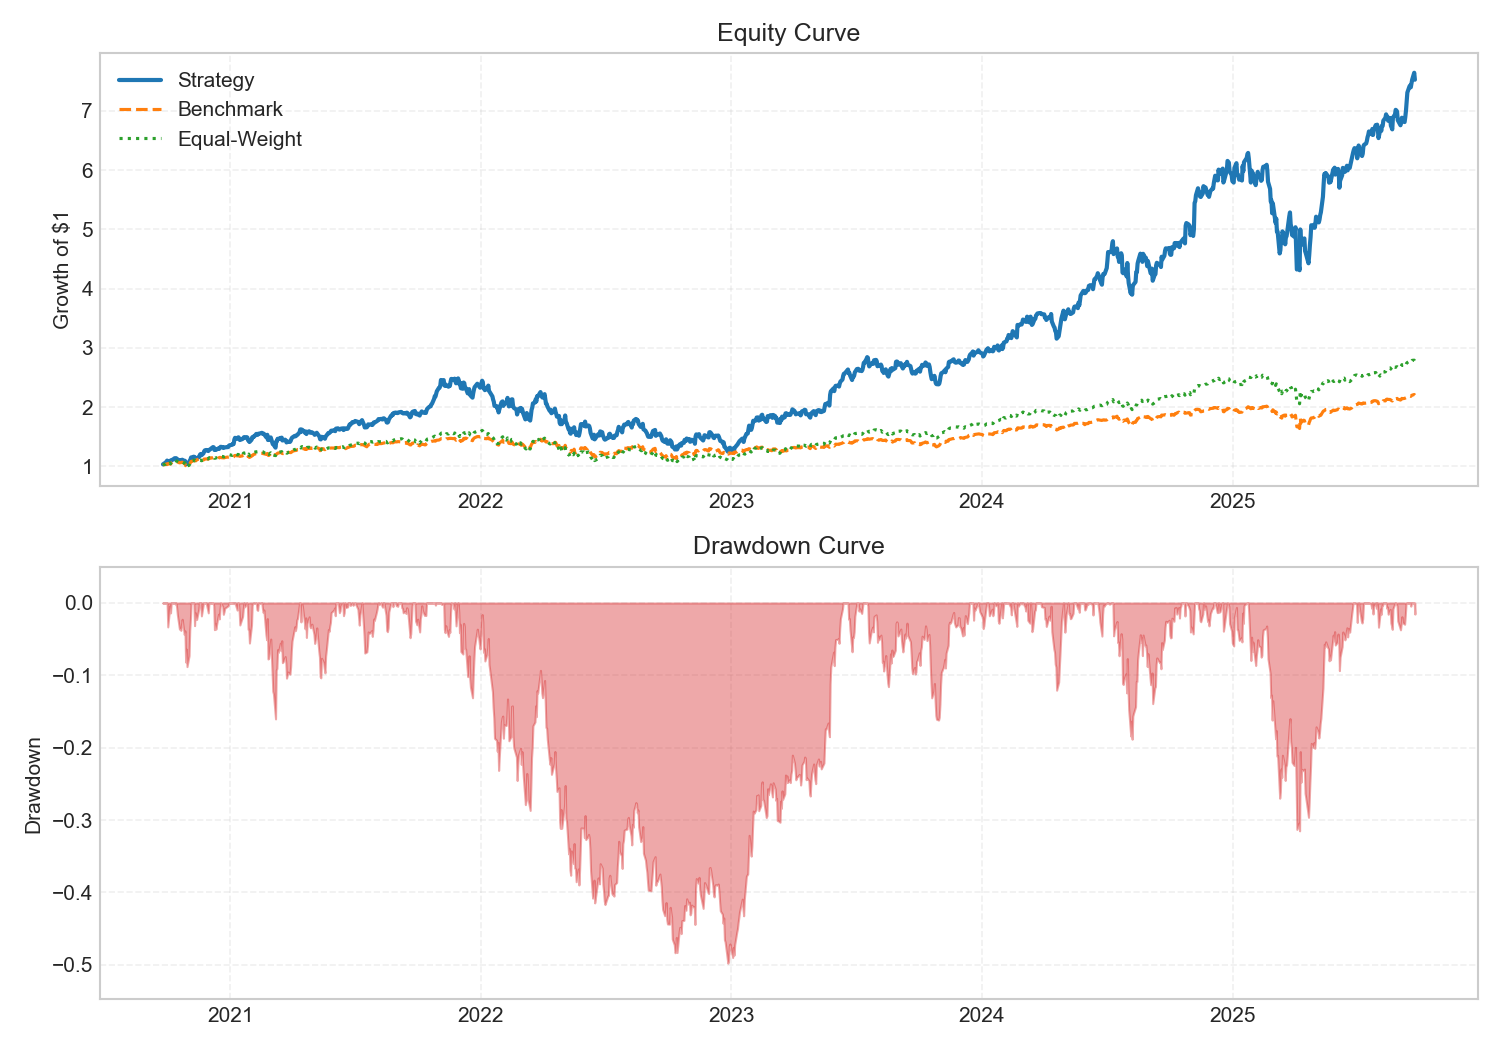
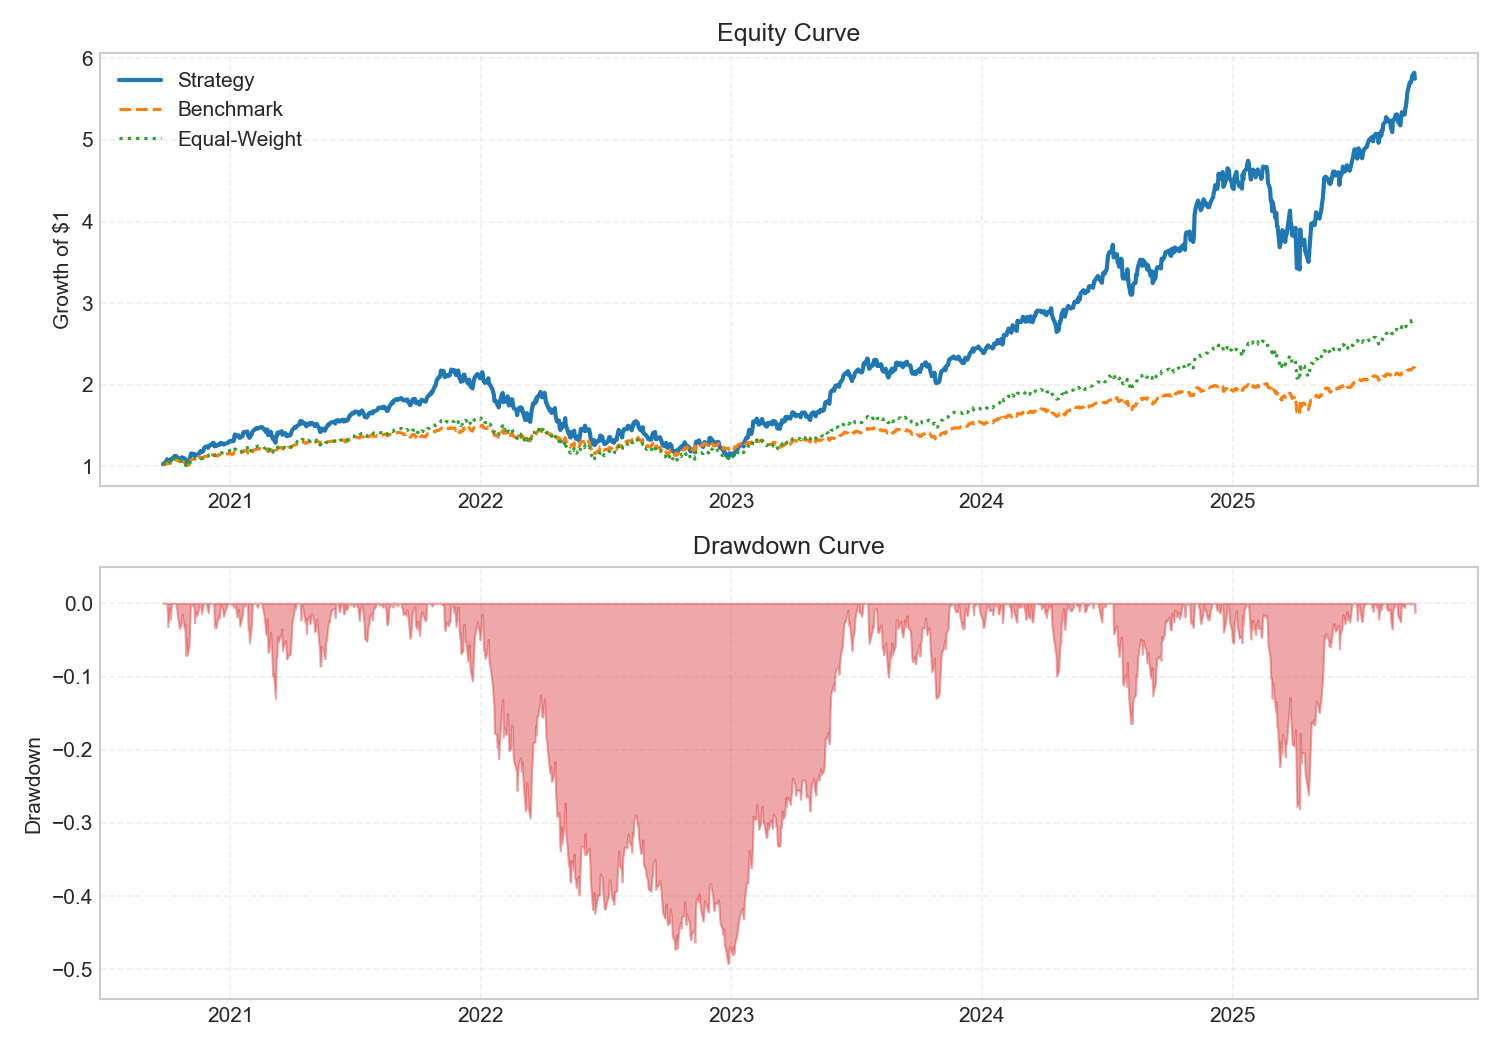
Enhance walk-forward backtest with ML overlay and diversification metrics
Added ML overlay using RandomForest-based signals to tilt MVO weights in walk-forward backtesting. Introduced Effective Number of Holdings (ENH) metrics for diversification analysis. Improved transaction cost application and refactored feature importance plot saving in ML demo. Minor update to YahooFinanceService for data filling method. Updated example figures and outputs.

diff --git a/portfolio/backtesting/walk_forward.py b/portfolio/backtesting/walk_forward.py
@@ -16,6 +16,7 @@ warnings.filterwarnings('ignore')
 from portfolio.optimizer.optimizer import SimplePortfolioOptimizer
 from portfolio.performance.calculator import SimplePerformanceCalculator
 from portfolio.data.yahoo_service import YahooFinanceService
+from portfolio.ml.predictor import RandomForestPredictor
 
 logger = logging.getLogger(__name__)
 
@@ -29,9 +30,11 @@ class BacktestConfig:
     benchmark_symbol: str = 'SPY'
     include_equal_weight_baseline: bool = True
     include_ml_overlay: bool = True
+    ml_tilt_alpha: float = 0.2  # strength of ML tilt over MVO weights
     max_position_cap: float = 0.20  # per-asset cap for constrained runs
     risk_model: str = 'ledoit_wolf'  # 'sample'|'ledoit_wolf'|'oas'
     turnover_penalty: float = 0.0
+    entropy_penalty: float = 0.03  # diversification control for MVO
 
 @dataclass
 class BacktestResult:
@@ -269,9 +272,12 @@ class WalkForwardBacktester:
                     weights = {symbol: 1.0/len(symbols) for symbol in symbols}
 
                 # Calculate transaction costs
+                applied_turnover = 0.0
                 if previous_weights is not None:
                     turnover = self._calculate_turnover(previous_weights, weights)
-                    transaction_costs += turnover * self.config.transaction_cost_bps / 10000
+                    cost = turnover * self.config.transaction_cost_bps / 10000
+                    transaction_costs += cost
+                    applied_turnover = turnover
 
                 # Store weights
                 weights_history.append({
@@ -282,6 +288,10 @@ class WalkForwardBacktester:
                 # Calculate test period returns
                 test_returns = test_prices.pct_change().dropna()
                 portfolio_returns = (test_returns * pd.Series(weights)).sum(axis=1)
+                # Apply transaction cost at the start of the test segment (net-of-cost)
+                if applied_turnover > 0 and not portfolio_returns.empty:
+                    cost = applied_turnover * self.config.transaction_cost_bps / 10000
+                    portfolio_returns.iloc[0] = portfolio_returns.iloc[0] - cost
 
                 returns_list.extend(portfolio_returns.values)
                 previous_weights = weights
@@ -296,6 +306,24 @@ class WalkForwardBacktester:
 
         # Calculate metrics (benchmark-relative if provided)
         metrics = self._calculate_comprehensive_metrics(returns_series, benchmark_returns)
+
+        # Compute diversification metrics (Effective Number of Holdings)
+        try:
+            if not weights_df.empty:
+                def _enh(row: pd.Series) -> float:
+                    import numpy as np
+                    w = row.drop(labels=['date'], errors='ignore').astype(float)
+                    w = w[w > 0]
+                    if w.empty:
+                        return 0.0
+                    eps = 1e-12
+                    return float(np.exp(-(w * np.log(w + eps)).sum()))
+                enh_series = weights_df.apply(_enh, axis=1)
+                metrics['avg_enh'] = float(enh_series.mean()) if not enh_series.empty else 0.0
+                metrics['min_enh'] = float(enh_series.min()) if not enh_series.empty else 0.0
+                metrics['max_enh'] = float(enh_series.max()) if not enh_series.empty else 0.0
+        except Exception:
+            pass
 
         # Calculate total turnover
         total_turnover = self._calculate_total_turnover(weights_history)
@@ -324,6 +352,7 @@ class WalkForwardBacktester:
                 returns,
                 weight_cap=weight_cap,
                 risk_model=self.config.risk_model,
+                entropy_penalty=getattr(self.config, 'entropy_penalty', 0.0),
                 turnover_penalty=self.config.turnover_penalty,
                 previous_weights=prev_vec,
             )
@@ -334,28 +363,95 @@ class WalkForwardBacktester:
             return {symbol: 1.0/len(symbols) for symbol in symbols}
 
     def _calculate_ml_overlay_weights(self, train_prices: pd.DataFrame, symbols: List[str]) -> Dict[str, float]:
-        """Calculate weights using ML overlay (simplified momentum scoring)."""
+        """Calculate weights using an RF-based ML tilt over MVO weights.
+
+        - Train RandomForest per symbol on the training window (next-day returns target)
+        - Use the most recent predicted return as a cross-sectional signal
+        - Z-score and tilt MVO weights multiplicatively: w_final ∝ w_mvo * exp(alpha * z)
+        - Apply position cap and renormalize
+        """
         try:
-            returns = train_prices.pct_change().dropna()
-            if returns.empty:
-                return {symbol: 1.0/len(symbols) for symbol in symbols}
+            # Baseline MVO weights on training window (capped)
+            mvo_weights = self._calculate_mean_variance_weights(
+                train_prices, symbols, weight_cap=self.config.max_position_cap, previous_weights=None
+            )
 
-            # Simple momentum scoring (12-month return)
-            momentum_scores = {}
-            for symbol in symbols:
-                if symbol in returns.columns:
-                    momentum = (1 + returns[symbol]).prod() - 1
-                    momentum_scores[symbol] = momentum
+            # Prepare signals per symbol
+            alpha = float(getattr(self.config, 'ml_tilt_alpha', 0.2) or 0.2)
+            signals: Dict[str, float] = {}
 
-            # Normalize scores to weights
-            scores = pd.Series(momentum_scores)
-            positive_scores = scores[scores > 0]
+            train_start = train_prices.index.min()
+            train_end = train_prices.index.max()
 
-            if len(positive_scores) == 0:
-                return {symbol: 1.0/len(symbols) for symbol in symbols}
+            for sym in symbols:
+                try:
+                    raw = self.data_service.fetch_historical_data(sym, period="5y")
+                    if raw is None or raw.empty:
+                        continue
+                    # Slice to training window (ensure enough lookback already present)
+                    df = raw.loc[:train_end]
+                    df = df.loc[max(train_start, df.index.min()):train_end]
+                    if df.empty:
+                        continue
 
-            weights = positive_scores / positive_scores.sum()
-            return weights.to_dict()
+                    rf = RandomForestPredictor()
+                    feat_df = rf.create_features(df)
+                    if feat_df.empty:
+                        continue
+                    X, y = rf.prepare_features(feat_df)
+                    if X.shape[0] < 50:
+                        # Avoid unstable fits on tiny samples
+                        continue
+                    rf.train(X, y)
+                    # Use the latest feature row for a next-day prediction
+                    pred = float(rf.predict(X[-1].reshape(1, -1))[0])
+                    signals[sym] = pred
+                except Exception:
+                    # Skip symbol on failure
+                    continue
+
+            if not signals:
+                return mvo_weights
+
+            # Z-score signals across universe (winsorize)
+            sig_series = pd.Series({s: signals.get(s, 0.0) for s in symbols}, dtype=float)
+            mean = float(sig_series.mean())
+            std = float(sig_series.std(ddof=0))
+            if std == 0 or np.isnan(std):
+                z = pd.Series(0.0, index=sig_series.index)
+            else:
+                z = (sig_series - mean) / std
+            z = z.clip(-2.0, 2.0)
+
+            # Apply multiplicative exponential tilt with min-signal threshold
+            w_mvo = pd.Series({s: mvo_weights.get(s, 0.0) for s in symbols}, dtype=float)
+            strength = float(z.abs().mean())
+            if strength < 0.10:
+                # Too weak signal; avoid tilt
+                tilted = w_mvo.copy()
+            else:
+                alpha_eff = alpha * min(1.0, strength)
+                tilted = w_mvo * np.exp(alpha_eff * z)
+            tilted = tilted.clip(lower=0.0)
+
+            # Renormalize
+            s = float(tilted.sum())
+            if s == 0 or np.isnan(s):
+                tilted = w_mvo.copy()
+                s = float(max(tilted.sum(), 1e-12))
+            tilted = tilted / s
+
+            # Apply position cap and renormalize again
+            cap = float(getattr(self.config, 'max_position_cap', 0.20) or 0.20)
+            if cap is not None and cap > 0:
+                tilted = tilted.clip(upper=cap)
+                s2 = float(tilted.sum())
+                if s2 == 0 or np.isnan(s2):
+                    tilted = w_mvo.copy()
+                    s2 = float(max(tilted.sum(), 1e-12))
+                tilted = tilted / s2
+
+            return {s: float(tilted.get(s, 0.0)) for s in symbols}
 
         except Exception as e:
             logger.warning(f"Error in ML overlay calculation: {e}")

diff --git a/examples/ml_workflow_demo.py b/examples/ml_workflow_demo.py
@@ -13,6 +13,7 @@ import numpy as np
 import matplotlib.pyplot as plt
 from portfolio.ml.predictor import RandomForestPredictor
 from portfolio.data.yahoo_service import YahooFinanceService
+from pathlib import Path
 import logging
 
 # Set up logging
@@ -131,7 +132,11 @@ def plot_feature_importance(feature_importance, symbol):
     plt.title(f'Top 15 Feature Importance - {symbol} (Red = New Indicators)')
     plt.tight_layout()
 
-    plt.savefig(f'feature_importance_{symbol}.png', dpi=150, bbox_inches='tight')
+    # Save under examples/figures
+    figures_dir = Path(__file__).resolve().parent / 'figures'
+    figures_dir.mkdir(parents=True, exist_ok=True)
+    out_path = figures_dir / f'feature_importance_{symbol}.png'
+    plt.savefig(out_path, dpi=150, bbox_inches='tight')
     plt.close()
 
 def main():

diff --git a/portfolio/data/yahoo_service.py b/portfolio/data/yahoo_service.py
@@ -359,7 +359,7 @@ class YahooFinanceService:
             numeric_columns = cleaned_data.select_dtypes(include=[np.number]).columns
             for col in numeric_columns:
                 # Forward fill missing values, then backward fill
-                cleaned_data[col] = cleaned_data[col].fillna(method='ffill').fillna(method='bfill')
+                cleaned_data[col] = cleaned_data[col].ffill().bfill()
 
             # Remove rows with all NaN values
             cleaned_data = cleaned_data.dropna(how='all')

diff --git a/README.md b/README.md
@@ -1,0 +1,134 @@
+# Quant Portfolio System
+
+A clear, minimal portfolio optimization project that demonstrates end‑to‑end workflows: data ingest (Yahoo Finance), mean‑variance optimization, simple risk/return metrics, and a lightweight FastAPI service. The goal is to keep it easy to run, explain, and maintain.
+
+## Features
+- Yahoo Finance data loader with simple caching to `data/`
+- Mean‑variance optimization (long‑only, sum‑to‑1) via CVXPY
+- Metrics: annualized return, volatility, Sharpe ratio, max drawdown
+- Basic visualizations: equity curve, drawdown, efficient frontier (preview)
+- FastAPI endpoints for optimize/analyze
+- Walk‑forward backtesting (short windows for quick runs)
+- Clean examples and a lab notebook
+
+## Stack
+- Python 3.11+, Pandas, NumPy
+- yfinance (Yahoo Finance)
+- CVXPY
+- FastAPI (+ uvicorn)
+- pytest
+- Matplotlib
+
+## Quick Start
+1) Create a virtual environment and install dependencies
+```bash
+python -m venv .venv
+source .venv/bin/activate  # Windows: .venv\Scripts\activate
+pip install -r requirements.txt
+```
+
+2) Run the lab notebook (recommended first pass)
+```bash
+# Launch Jupyter (VS Code, Jupyter Lab, or classic notebooks)
+# Open portfolio_optimization_lab.ipynb and run top-to-bottom
+```
+
+3) (Optional) Fetch and cache data
+```bash
+python scripts/fetch_market_data.py
+```
+This will populate `data/raw` and `data/processed` and create combined price CSVs for faster reruns.
+
+## Project Structure
+```
+portfolio/                # Core logic
+  api/                    # FastAPI app (portfolio.api.main:app)
+  backtesting/            # Walk‑forward backtesting
+  data/                   # Yahoo service and helpers
+  optimizer/              # SimplePortfolioOptimizer (MVO, CVaR, BL)
+  performance/            # Metrics + plots
+examples/                 # Runnable examples and outputs
+scripts/                  # Small, focused scripts (fetch, API, reports)
+tests/                    # pytest suites
+portfolio_optimization_lab.ipynb  # End‑to‑end lab notebook
+config.yaml               # Minimal config (e.g., defaults)
+```
+
+## Notebook Guide
+Open `portfolio_optimization_lab.ipynb` and run cells in order. You’ll see:
+- Data Fetch & Caching: loads adjusted close prices and caches to `data/`
+- Returns & Correlations: quick sanity checks
+- Mean–Variance Optimization: weights + metrics; optional efficient frontier
+- Parameter Sweep: risk model, weight caps, entropy
+- Backtesting (short window): quick performance snapshot
+- Outputs saved to `examples/figures/` and `examples/outputs/`
+
+### Defaults used in the lab
+- Risk model: Ledoit–Wolf shrinkage (toggle to `sample` or `oas`)
+- Diversification: `weight_cap = 0.20`, `entropy_penalty = 0.03` (Effective Number of Holdings is printed)
+- Walk‑forward: 1y train / 1q test, transaction costs 7.5 bps per rebalance (returns are net‑of‑cost)
+- ML overlay: conservative tilt with a min‑signal threshold
+
+## API Usage (Optional)
+Start the API:
+```bash
+uvicorn portfolio.api.main:app --reload
+```
+Or use the script:
+```bash
+python scripts/run_api_server.py
+```
+Health check:
+```bash
+curl http://127.0.0.1:8000/health
+```
+Optimize (example payload):
+```bash
+curl -X POST http://127.0.0.1:8000/optimize \
+  -H "Content-Type: application/json" \
+  -d '{
+    "assets": [{"symbol": "AAPL"}, {"symbol": "MSFT"}, {"symbol": "GOOGL"}],
+    "method": "mean_variance",
+    "objective": "sharpe",
+    "lookback_period": 252
+  }'
+```
+Analyze:
+```bash
+curl -X POST http://127.0.0.1:8000/analyze \
+  -H "Content-Type: application/json" \
+  -d '{
+    "assets": [{"symbol": "AAPL"}, {"symbol": "MSFT"}, {"symbol": "GOOGL"}],
+    "weights": {"AAPL": 0.34, "MSFT": 0.33, "GOOGL": 0.33},
+    "risk_free_rate": 0.02,
+    "lookback_period": 252
+  }'
+```
+
+## Examples
+- `examples/data_pipeline_demo.py` — basic loader + cache
+- `examples/walk_forward_demo.py` — quick walk‑forward snapshot
+- `examples/ml_workflow_demo.py` — simple ML overlay illustration
+- Figures and CSV outputs are written under `examples/figures/` and `examples/outputs/`
+
+## Tests
+Run all tests:
+```bash
+pytest -q
+```
+Tip: If you’re offline, prefer running tests that don’t require fresh downloads (data service caches under `data/`).
+
+## Data & Configuration
+- Primary data source: Yahoo Finance via `yfinance`
+- Minimal preprocessing: forward/backward fills; simple validation
+- Config via `config.yaml` (sane defaults); environment variables optional
+- Handle missing/invalid symbols gracefully; continue with available data
+
+## Troubleshooting
+- SSL or rate‑limit issues on first fetch: rerun or use `scripts/fetch_market_data.py` to seed the cache.
+- Optimization errors: ensure ≥2 symbols and non‑empty return series.
+- Plots look coarse in notebooks: `%config InlineBackend.figure_format = 'retina'` is already set in the lab.
+- API not reachable: confirm `uvicorn portfolio.api.main:app --reload` is running on port 8000.
+
+## License
+This project is licensed under the MIT License. See `LICENSE` for details.
